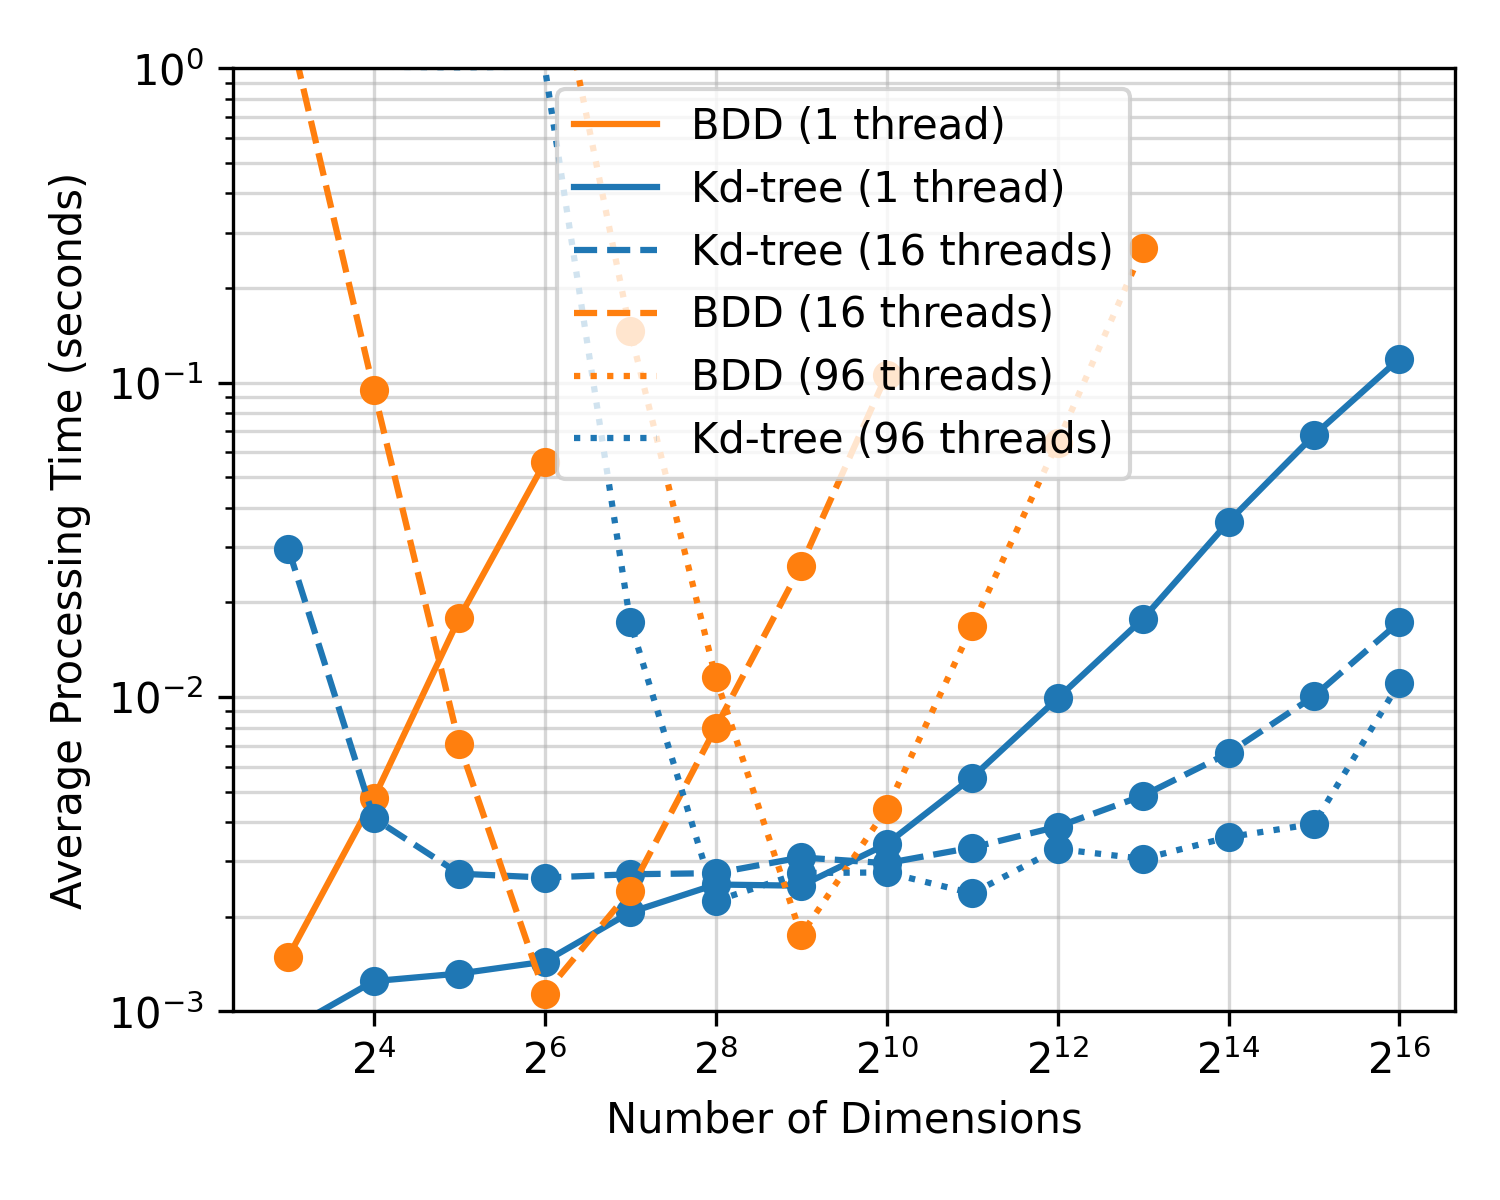
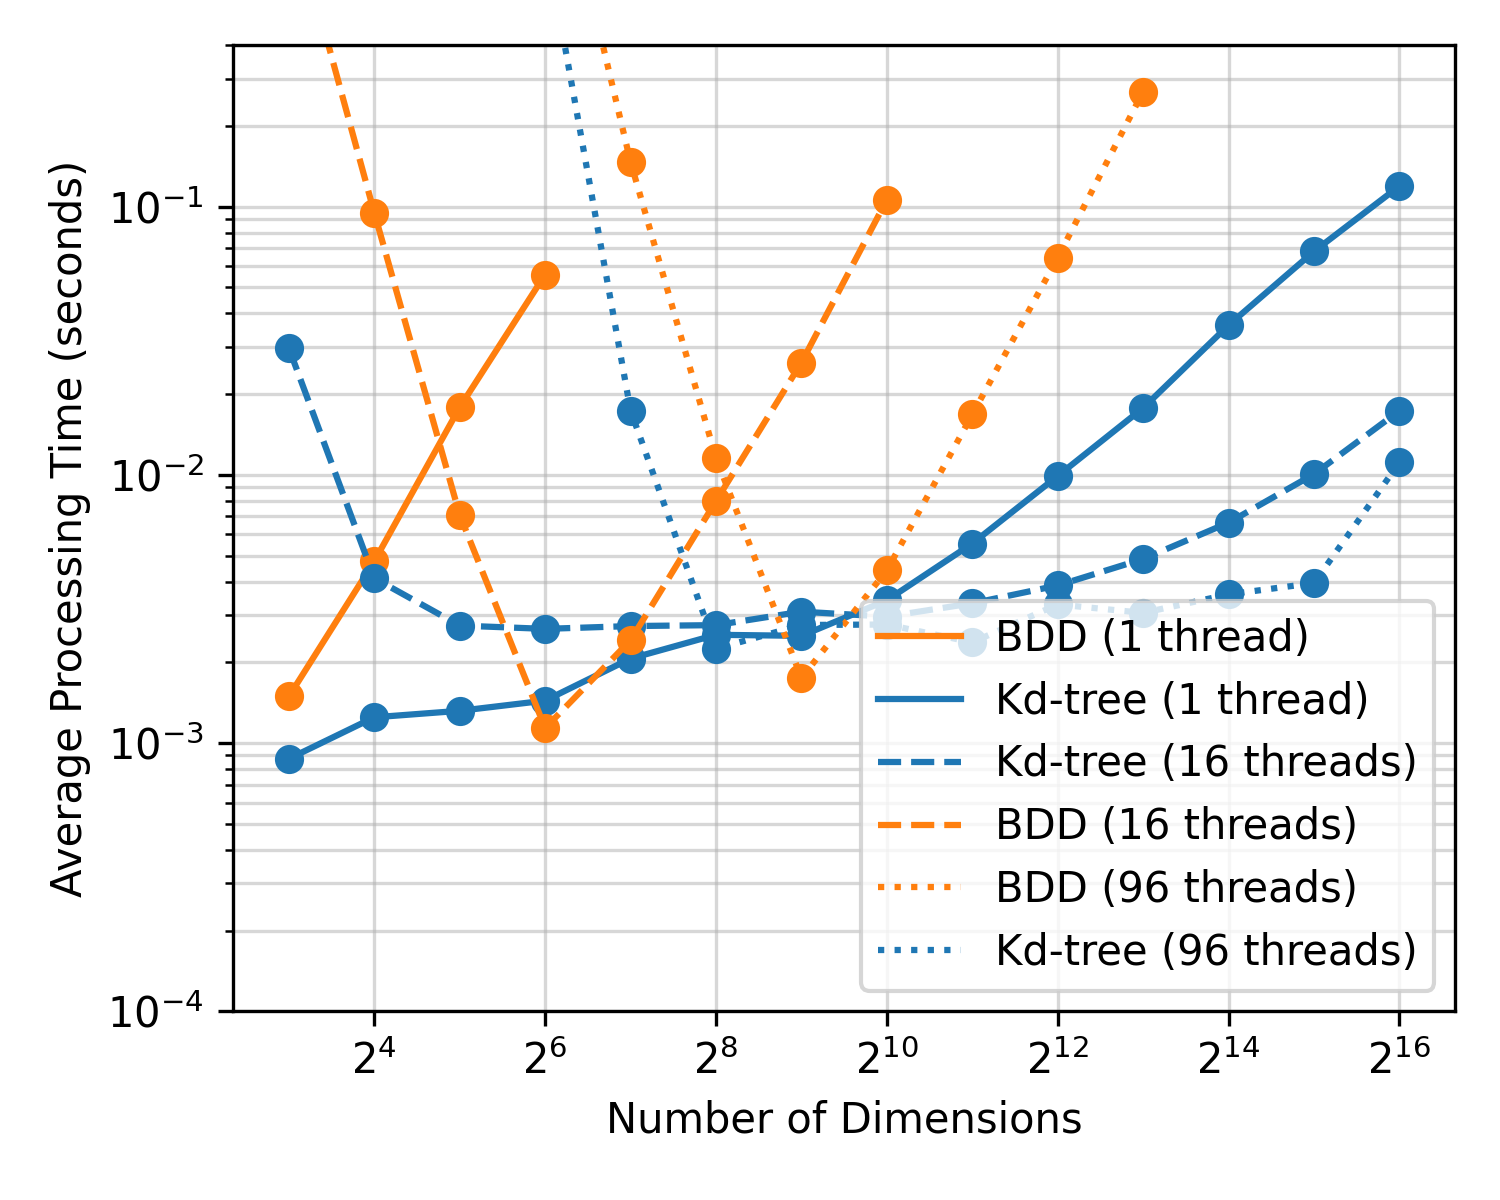
tweak plot

Changed region(s): [[0.0307, 0.0308, 0.9813, 0.8633], [0.0613, 0.8325, 0.1227, 0.8633]]

diff --git a/results/par/plot.py b/results/par/plot.py
@@ -20,8 +20,8 @@ methods = os.listdir(results_dir)
 
 plt.figure(figsize=(5, 4))
 
-y_min = 0.001
-y_max = 1.0
+y_min = 0.0001
+y_max = 0.4
 
 # Use matplotlib's default colors
 colors = {
